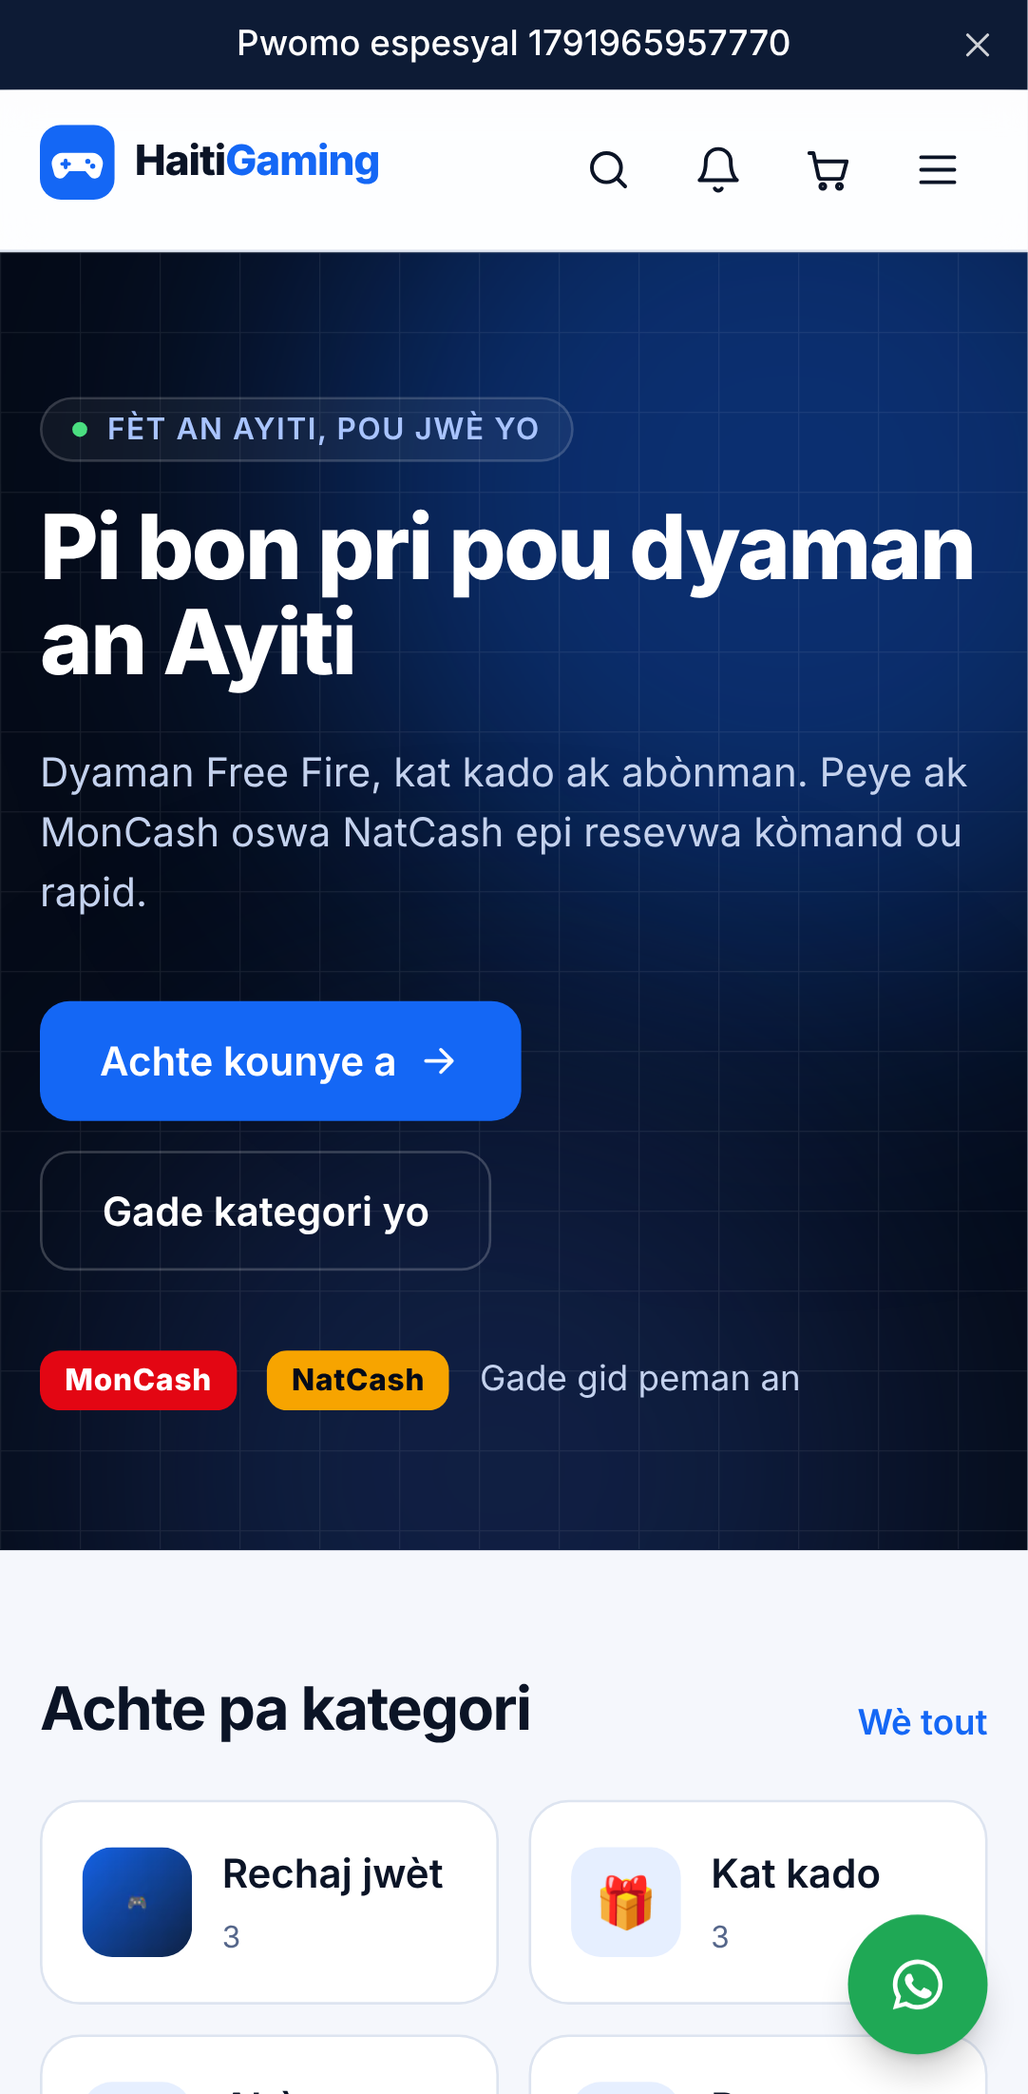
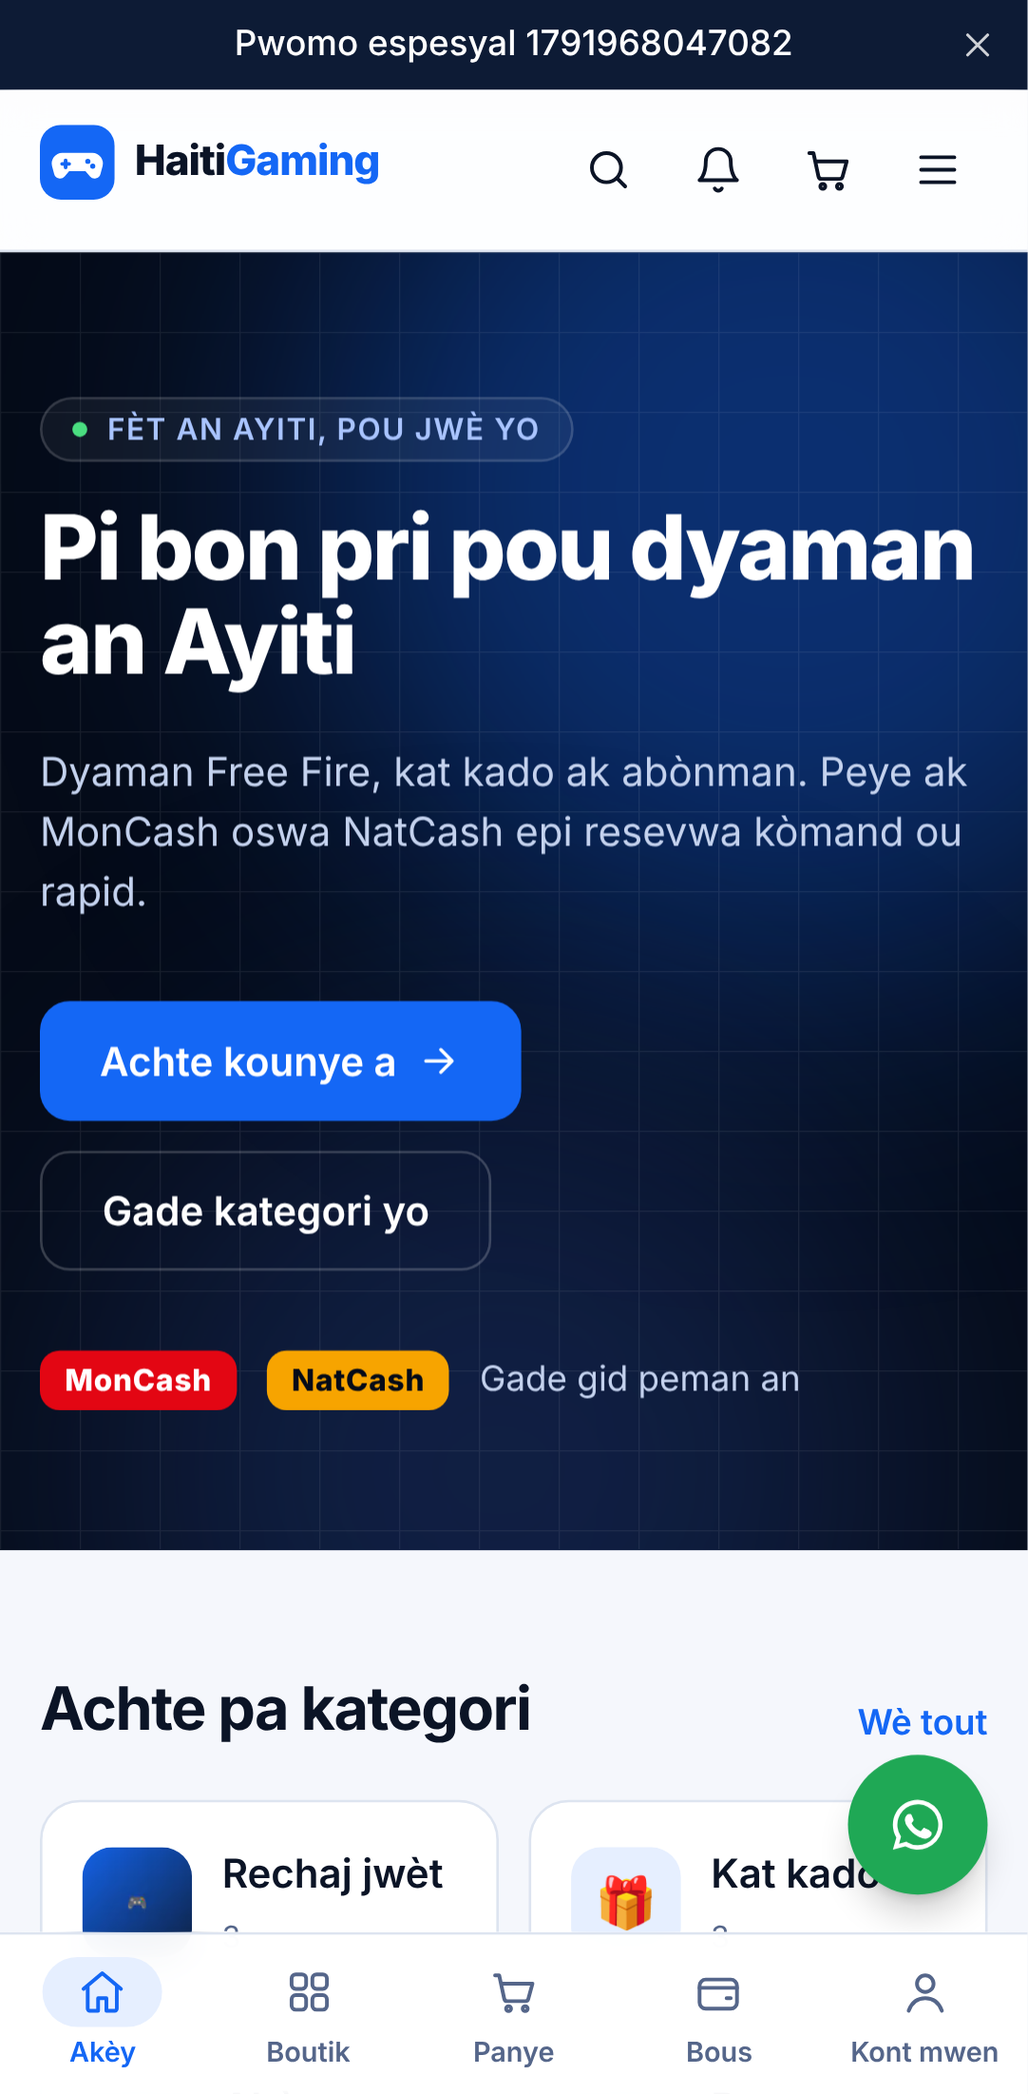
Fix phone menu, add bottom navigation, make admin work on phones
- Phone menu rendered into <body>: the header's backdrop blur trapped the
  fixed panel inside the 64px header, so it looked like nothing opened
- Storefront bottom tab bar on phones (Home, Store, Cart, Wallet, Account)
- Admin: tables become labeled cards on phones, grid columns can shrink,
  bottom bar with Home/Orders/Payments/Support + More
- Tests: every admin page checked at phone width; mobile navigation

Claude-Session: https://claude.ai/code/session_01CWERax6mh6yt6fEhJPoubZ

diff --git a/src/components/HeaderClient.tsx b/src/components/HeaderClient.tsx
@@ -1,5 +1,6 @@
 "use client";
 import { useEffect, useState, useTransition } from "react";
+import { createPortal } from "react-dom";
 import { useLocale, useTranslations } from "next-intl";
 import { useParams } from "next/navigation";
 import { Link, usePathname, useRouter } from "@/i18n/navigation";
@@ -7,7 +8,7 @@ import { localeNames, locales, type Locale } from "@/i18n/routing";
 import { setCurrency, saveLocalePreference } from "@/actions/prefs";
 import { authClient } from "@/lib/auth-client";
 import { useStore } from "./cart/CartProvider";
-import { CartIcon, CloseIcon, MenuIcon, MoonIcon, SunIcon } from "./Icons";
+import { CartIcon, CloseIcon, HomeIcon, MenuIcon, MoonIcon, StoreIcon, SunIcon, UserIcon, WalletIcon } from "./Icons";
 
 export function ThemeToggle({ withLabel = false }: { withLabel?: boolean }) {
   const t = useTranslations("common");
@@ -121,6 +122,8 @@ export function MobileMenu({ nav, signedIn, name }: { nav: NavItem[]; signedIn: 
   const t = useTranslations("common");
   const [open, setOpen] = useState(false);
   const pathname = usePathname();
+  const [mounted, setMounted] = useState(false);
+  useEffect(() => setMounted(true), []);
   useEffect(() => setOpen(false), [pathname]);
   useEffect(() => {
     document.body.style.overflow = open ? "hidden" : "";
@@ -135,7 +138,8 @@ export function MobileMenu({ nav, signedIn, name }: { nav: NavItem[]; signedIn: 
         <MenuIcon />
         <span className="sr-only">{t("menu")}</span>
       </button>
-      {open && (
+      {/* Rendered into <body>: the header's backdrop blur would otherwise trap this fixed panel inside the 64px header. */}
+      {open && mounted && createPortal(
         <div className="fixed inset-0 z-50 md:hidden" role="dialog" aria-modal="true" id="mobile-menu">
           <button type="button" aria-label={t("close")} className="absolute inset-0 bg-midnight/60" onClick={() => setOpen(false)} />
           <div className="animate-rise absolute inset-y-0 right-0 flex w-[86%] max-w-sm flex-col gap-1 overflow-y-auto bg-surface p-4 shadow-2xl">
@@ -171,8 +175,50 @@ export function MobileMenu({ nav, signedIn, name }: { nav: NavItem[]; signedIn: 
               <ThemeToggle withLabel />
             </div>
           </div>
-        </div>
+        </div>,
+        document.body,
       )}
     </>
+  );
+}
+
+/** Phone-only bottom navigation: the five places customers go most. */
+export function BottomNav({ signedIn }: { signedIn: boolean }) {
+  const t = useTranslations("common");
+  const pathname = usePathname();
+  const { count, ready } = useStore();
+  const items = [
+    { href: "/", label: t("home"), icon: HomeIcon, active: pathname === "/" },
+    { href: "/store", label: t("store"), icon: StoreIcon, active: pathname.startsWith("/store") || pathname.startsWith("/categories") || pathname.startsWith("/products") },
+    { href: "/cart", label: t("cart"), icon: CartIcon, active: pathname.startsWith("/cart") || pathname.startsWith("/checkout"), badge: ready ? count : 0 },
+    { href: signedIn ? "/account/wallet" : "/auth/login?next=/account/wallet", label: t("wallet"), icon: WalletIcon, active: pathname.startsWith("/account/wallet") },
+    { href: signedIn ? "/account" : "/auth/login", label: signedIn ? t("account") : t("signIn"), icon: UserIcon, active: (pathname.startsWith("/account") && !pathname.startsWith("/account/wallet")) || pathname.startsWith("/auth") },
+  ];
+  return (
+    <nav
+      aria-label={t("menu")}
+      className="fixed inset-x-0 bottom-0 z-40 border-t border-border bg-surface/95 backdrop-blur md:hidden"
+      style={{ paddingBottom: "env(safe-area-inset-bottom, 0px)", paddingLeft: "env(safe-area-inset-left, 0px)", paddingRight: "env(safe-area-inset-right, 0px)" }}
+    >
+      <ul className="mx-auto grid h-16 max-w-md grid-cols-5">
+        {items.map(({ href, label, icon: Icon, active, badge }) => (
+          <li key={label} className="min-w-0">
+            <Link
+              href={href}
+              aria-current={active ? "page" : undefined}
+              className={`flex h-full flex-col items-center justify-center gap-0.5 text-[11px] font-semibold transition-colors ${active ? "text-primary" : "text-muted hover:text-text"}`}
+            >
+              <span className={`relative grid h-7 w-12 place-items-center rounded-full transition-colors ${active ? "bg-primary-soft" : ""}`}>
+                <Icon width={20} height={20} />
+                {!!badge && (
+                  <span className="absolute -right-0.5 -top-1 grid h-4 min-w-4 place-items-center rounded-full bg-primary px-1 text-[10px] font-bold text-white">{badge}</span>
+                )}
+              </span>
+              <span className="max-w-full truncate px-1">{label}</span>
+            </Link>
+          </li>
+        ))}
+      </ul>
+    </nav>
   );
 }

diff --git a/src/components/admin/AdminNav.tsx b/src/components/admin/AdminNav.tsx
@@ -4,7 +4,7 @@ import { usePathname, useRouter } from "next/navigation";
 import { useState } from "react";
 import { authClient } from "@/lib/auth-client";
 import { Logo } from "../Logo";
-import { MenuIcon, CloseIcon } from "../Icons";
+import { MenuIcon, CloseIcon, HomeIcon, CartIcon, WalletIcon, ChatIcon, StoreIcon, UserIcon } from "../Icons";
 
 export function AdminNav({ items, user, logo }: { items: { href: string; label: string; group?: string; badge?: number }[]; user: { name: string; role: string }; logo?: string }) {
   const pathname = usePathname();
@@ -34,6 +34,9 @@ export function AdminNav({ items, user, logo }: { items: { href: string; label: 
       </div>
     </div>
   );
+  // Up to four shortcuts the person is allowed to open, in this order of daily use.
+  const shortcuts: Record<string, typeof HomeIcon> = { "/admin": HomeIcon, "/admin/orders": CartIcon, "/admin/payments": WalletIcon, "/admin/support": ChatIcon, "/admin/products": StoreIcon, "/admin/customers": UserIcon };
+  const quick = items.filter((i) => i.href in shortcuts).slice(0, 4).map((i) => ({ ...i, short: shortcuts[i.href], label: i.label === "Dashboard" ? "Home" : i.label }));
   return (
     <>
       <aside className="sticky top-0 hidden h-dvh w-60 shrink-0 flex-col gap-6 overflow-y-auto bg-midnight p-4 lg:flex">
@@ -55,6 +58,32 @@ export function AdminNav({ items, user, logo }: { items: { href: string; label: 
           </div>
         </div>
       )}
+      {/* Phone: the most-used screens one tap away; "More" opens the full menu */}
+      <nav
+        aria-label="Quick admin navigation"
+        className="fixed inset-x-0 bottom-0 z-40 border-t border-white/10 bg-midnight lg:hidden"
+        style={{ paddingBottom: "env(safe-area-inset-bottom, 0px)", paddingLeft: "env(safe-area-inset-left, 0px)", paddingRight: "env(safe-area-inset-right, 0px)" }}
+      >
+        <ul className="grid h-16 grid-cols-5">
+          {quick.map((i) => (
+            <li key={i.href} className="min-w-0">
+              <Link href={i.href} aria-current={active(i.href) ? "page" : undefined} className={`flex h-full flex-col items-center justify-center gap-0.5 text-[11px] font-semibold ${active(i.href) ? "text-white" : "text-[#9fb0d0]"}`}>
+                <span className={`relative grid h-7 w-11 place-items-center rounded-full ${active(i.href) ? "bg-primary" : ""}`}>
+                  <i.short width={18} height={18} />
+                  {!!i.badge && <span className="absolute -right-1 -top-1 grid h-4 min-w-4 place-items-center rounded-full bg-warning px-1 text-[10px] font-bold text-midnight">{i.badge}</span>}
+                </span>
+                <span className="max-w-full truncate px-1">{i.label}</span>
+              </Link>
+            </li>
+          ))}
+          <li>
+            <button type="button" onClick={() => setOpen(true)} className="flex h-full w-full flex-col items-center justify-center gap-0.5 text-[11px] font-semibold text-[#9fb0d0]">
+              <span className="grid h-7 w-11 place-items-center"><MenuIcon width={18} height={18} /></span>
+              More
+            </button>
+          </li>
+        </ul>
+      </nav>
     </>
   );
 }

diff --git a/e2e/admin-mobile.spec.ts b/e2e/admin-mobile.spec.ts
@@ -1,0 +1,43 @@
+import { test, expect } from "@playwright/test";
+import { staffLogin } from "./helpers";
+
+/** Every admin screen must fit a phone: no sideways scrolling of the page itself. */
+const PAGES = ["", "orders", "payments", "reconciliation", "risk", "approvals", "support", "products", "codes", "media", "customers", "wallet", "referrals", "analytics", "homepage", "news", "pages", "navigation", "newsletter", "appearance", "translations", "seo", "staff", "security", "payment-methods", "email", "settings", "audit"];
+
+test("admin pages fit a phone screen", async ({ page }) => {
+  test.setTimeout(240_000);
+  await staffLogin(page);
+  // Detail pages: open the first item of each list
+  const details: string[] = [];
+  for (const [list, re] of [["orders", /\/admin\/orders\/c/], ["customers", /\/admin\/customers\/c/], ["products", /\/admin\/products\/c/], ["support", /\/admin\/support\/c/], ["news", /\/admin\/news\/c/], ["pages", /\/admin\/pages\/c/]] as const) {
+    await page.goto(`/admin/${list}`);
+    const href = await page.locator("main a[href]").evaluateAll((as, src) => as.map((a) => a.getAttribute("href")).find((h) => h && new RegExp(src).test(h)) ?? null, re.source);
+    if (href) details.push(href);
+  }
+  const problems: string[] = [];
+  for (const path of [...PAGES.map((p) => `/admin${p ? "/" + p : ""}`), ...details]) {
+    await page.goto(path);
+    await page.waitForLoadState("networkidle");
+    const r = await page.evaluate(() => {
+      const vw = document.documentElement.clientWidth;
+      const over = document.documentElement.scrollWidth - vw;
+      const culprits: string[] = [];
+      if (over > 1) {
+        for (const el of Array.from(document.querySelectorAll("main *"))) {
+          const b = el.getBoundingClientRect();
+          if (b.right > vw + 1 && b.width > 0) {
+            let p: Element | null = el.parentElement, scrolls = false;
+            while (p && p !== document.body) { const o = getComputedStyle(p).overflowX; if (o === "auto" || o === "scroll" || o === "hidden") { scrolls = true; break; } p = p.parentElement; }
+            if (!scrolls) culprits.push(`${el.tagName.toLowerCase()}.${(el.getAttribute("class") ?? "").split(" ").slice(0, 4).join(".")} w=${Math.round(b.width)}`);
+          }
+          if (culprits.length >= 3) break;
+        }
+      }
+      return { over, culprits };
+    });
+    if (r.over > 1) problems.push(`${path}: +${r.over}px  ${r.culprits.join(" | ")}`);
+    await page.screenshot({ path: `test-results/admin-mobile${path.replace(/\//g, "_")}.png`, fullPage: true });
+  }
+  console.log(problems.length ? "OVERFLOW:\n" + problems.join("\n") : "All admin pages fit.");
+  expect(problems).toEqual([]);
+});

diff --git a/src/components/admin/ui.tsx b/src/components/admin/ui.tsx
@@ -1,3 +1,4 @@
+import { Children, Fragment, cloneElement, isValidElement } from "react";
 export function PageTitle({ title, sub, actions }: { title: string; sub?: string; actions?: React.ReactNode }) {
   return (
     <div className="mb-6 flex flex-wrap items-end justify-between gap-3">
@@ -10,14 +11,30 @@ export function PageTitle({ title, sub, actions }: { title: string; sub?: string
   );
 }
 
+/** Adds each column's header as a data-label on its cells, so phones can show rows as labeled cards. */
+function labelCells(children: React.ReactNode, head: string[]): React.ReactNode {
+  return Children.map(children, (row) => {
+    if (!isValidElement<{ children?: React.ReactNode }>(row)) return row;
+    if (row.type === Fragment) return cloneElement(row, {}, labelCells(row.props.children, head));
+    let i = 0;
+    const cells = Children.map(row.props.children, (cell) => {
+      if (!isValidElement(cell)) return cell;
+      const label = head[i++] ?? "";
+      return cloneElement(cell as React.ReactElement<Record<string, unknown>>, { "data-label": label });
+    });
+    return cloneElement(row, {}, cells);
+  });
+}
+
+/** Table on wide screens; on phones each row becomes a card with "Label · value" lines. */
 export function Table({ head, children, empty }: { head: string[]; children: React.ReactNode; empty?: boolean }) {
   return (
-    <div className="card overflow-x-auto">
-      <table className="w-full min-w-[640px] text-left text-sm">
+    <div className="card rtable overflow-x-auto">
+      <table className="w-full text-left text-sm sm:min-w-[640px]">
         <thead className="border-b border-border text-xs uppercase tracking-wide text-muted">
           <tr>{head.map((h) => <th key={h} className="px-4 py-3 font-semibold">{h}</th>)}</tr>
         </thead>
-        <tbody className="divide-y divide-border">{children}</tbody>
+        <tbody className="divide-y divide-border">{labelCells(children, head)}</tbody>
       </table>
       {empty && <p className="p-8 text-center text-sm text-muted">Nothing here.</p>}
     </div>

diff --git a/src/app/globals.css b/src/app/globals.css
@@ -160,3 +160,71 @@ body {
 .data-saver .blur-3xl {
   display: none;
 }
+
+/* Admin on phones: grid columns may shrink below their content, and tables turn into labeled cards. */
+.admin-main .grid > * {
+  min-width: 0;
+}
+@media (max-width: 639px) {
+  .rtable table,
+  .rtable tbody {
+    display: block;
+  }
+  .rtable thead {
+    position: absolute;
+    width: 1px;
+    height: 1px;
+    overflow: hidden;
+    clip: rect(0 0 0 0);
+  }
+  .rtable tr {
+    display: grid;
+    gap: 2px;
+    padding: 12px 14px;
+  }
+  .rtable td {
+    display: grid;
+    grid-template-columns: auto minmax(0, 1fr);
+    column-gap: 12px;
+    row-gap: 2px;
+    align-items: center;
+    justify-items: end;
+    padding: 4px 0 !important;
+    text-align: right;
+    overflow-wrap: anywhere;
+  }
+  .rtable td > * {
+    grid-column: 2;
+    min-width: 0;
+    max-width: 100%;
+  }
+  .rtable td[data-label]::before {
+    content: attr(data-label);
+    grid-column: 1;
+    grid-row: 1 / span 6;
+    align-self: start;
+    padding-top: 2px;
+    justify-self: start;
+    text-align: left;
+    font-size: 11px;
+    font-weight: 600;
+    text-transform: uppercase;
+    letter-spacing: 0.04em;
+    color: var(--muted);
+  }
+  .rtable td[data-label=""] {
+    grid-template-columns: minmax(0, 1fr);
+  }
+  .rtable td[data-label=""] > * {
+    grid-column: 1;
+  }
+  .rtable td[data-label=""]::before {
+    content: none;
+  }
+  .rtable td:first-child {
+    font-weight: 600;
+  }
+  .rtable td:empty {
+    display: none;
+  }
+}

diff --git a/e2e/mobile-nav.spec.ts b/e2e/mobile-nav.spec.ts
@@ -1,0 +1,28 @@
+import { test, expect } from "@playwright/test";
+import { staffLogin } from "./helpers";
+
+test("phone menu opens full screen and the bottom bar navigates", async ({ page }) => {
+  await page.goto("/ht");
+  await page.waitForLoadState("networkidle");
+  await page.locator('button[aria-controls="mobile-menu"]').click();
+  const menu = page.locator("#mobile-menu");
+  const box = await menu.boundingBox();
+  expect(box!.height).toBeGreaterThan(500); // regression: the header's blur once trapped it at 64px
+  await menu.getByRole("link", { name: "Kategori" }).click();
+  await page.waitForURL("**/ht/categories");
+
+  const bar = page.getByRole("navigation", { name: "Meni" });
+  await bar.getByRole("link", { name: "Boutik" }).click();
+  await page.waitForURL("**/ht/store");
+  await expect(bar.getByRole("link", { name: "Boutik" })).toHaveAttribute("aria-current", "page");
+});
+
+test("admin bottom bar and More menu work on a phone", async ({ page }) => {
+  await staffLogin(page);
+  const bar = page.getByRole("navigation", { name: "Quick admin navigation" });
+  await bar.getByRole("link", { name: "Orders" }).click();
+  await page.waitForURL("**/admin/orders");
+  await bar.getByRole("button", { name: "More" }).click();
+  await page.getByRole("dialog").getByRole("link", { name: "Settings" }).click();
+  await page.waitForURL("**/admin/settings");
+});

diff --git a/src/app/[locale]/layout.tsx b/src/app/[locale]/layout.tsx
@@ -10,6 +10,7 @@ import { CartProvider } from "@/components/cart/CartProvider";
 import { Header } from "@/components/Header";
 import { Footer } from "@/components/Footer";
 import { WhatsAppButton } from "@/components/WhatsAppButton";
+import { BottomNav } from "@/components/HeaderClient";
 import { AnnouncementBar } from "@/components/AnnouncementBar";
 import { alternates } from "@/lib/seo";
 import { themeCss } from "@/lib/theme-css";
@@ -67,6 +68,9 @@ export default async function LocaleLayout({ children, params }: { children: Rea
             <main id="main">{children}</main>
             <Footer settings={settings} />
             <WhatsAppButton number={settings.whatsappNumber} />
+            {/* Room for the phone bottom navigation so it never covers the footer */}
+            <div className="md:hidden" style={{ height: "calc(4rem + env(safe-area-inset-bottom, 0px))" }} aria-hidden />
+            <BottomNav signedIn={!!user} />
             <ServiceWorker />
           </CartProvider>
         </NextIntlClientProvider>

diff --git a/src/components/Icons.tsx b/src/components/Icons.tsx
@@ -27,3 +27,5 @@ export const WhatsAppIcon = (p: P) => (
     <path fill="currentColor" d="M12 2a10 10 0 0 0-8.6 15.1L2 22l5-1.3A10 10 0 1 0 12 2Zm0 18.2a8.2 8.2 0 0 1-4.2-1.2l-.3-.2-3 .8.8-2.9-.2-.3A8.2 8.2 0 1 1 12 20.2Zm4.5-6.1c-.2-.1-1.5-.7-1.7-.8-.2-.1-.4-.1-.6.1l-.8 1c-.1.2-.3.2-.5.1a6.7 6.7 0 0 1-3.3-2.9c-.2-.4.2-.4.7-1.3.1-.2 0-.3 0-.4l-.8-1.8c-.2-.5-.4-.4-.6-.4h-.5a1 1 0 0 0-.7.3 3 3 0 0 0-.9 2.2 5.2 5.2 0 0 0 1.1 2.7 11.8 11.8 0 0 0 4.5 4c1.7.7 2.3.8 3.2.6a2.7 2.7 0 0 0 1.8-1.2 2.2 2.2 0 0 0 .1-1.3c0-.1-.2-.2-.5-.3Z" />
   </svg>
 );
+export const HomeIcon = (p: P) => (<svg {...base} {...p}><path d="M3 10.5 12 3l9 7.5" /><path d="M5 9.5V20a1 1 0 0 0 1 1h4v-6h4v6h4a1 1 0 0 0 1-1V9.5" /></svg>);
+export const StoreIcon = (p: P) => (<svg {...base} {...p}><rect x="3.5" y="3.5" width="7" height="7" rx="2" /><rect x="13.5" y="3.5" width="7" height="7" rx="2" /><rect x="3.5" y="13.5" width="7" height="7" rx="2" /><rect x="13.5" y="13.5" width="7" height="7" rx="2" /></svg>);

diff --git a/src/components/WhatsAppButton.tsx b/src/components/WhatsAppButton.tsx
@@ -9,7 +9,8 @@ export async function WhatsAppButton({ number, message }: { number: string; mess
       href={`https://wa.me/${number}?text=${text}`}
       target="_blank"
       rel="noopener"
-      className="fixed bottom-4 right-4 z-30 inline-flex h-14 items-center gap-2 rounded-full bg-[#1fa855] px-4 font-semibold text-white shadow-lg shadow-black/20 hover:bg-[#178a45] sm:bottom-6 sm:right-6"
+      style={{ bottom: "calc(5rem + env(safe-area-inset-bottom, 0px))" }}
+      className="fixed right-4 z-30 md:!bottom-6 md:right-6 inline-flex h-14 items-center gap-2 rounded-full bg-[#1fa855] px-4 font-semibold text-white shadow-lg shadow-black/20 hover:bg-[#178a45]"
       aria-label={t("whatsappHelp")}
     >
       <WhatsAppIcon />

diff --git a/src/app/admin/(panel)/layout.tsx b/src/app/admin/(panel)/layout.tsx
@@ -49,7 +49,7 @@ export default async function PanelLayout({ children }: { children: React.ReactN
   return (
     <div className="lg:flex">
       <AdminNav items={all.filter((i) => can(user, i.perm))} user={{ name: user.name, role: user.role }} logo={settings.logoDarkUrl || settings.logoUrl} />
-      <main className="min-w-0 flex-1 p-4 sm:p-6 lg:p-8">{children}</main>
+      <main className="admin-main min-w-0 flex-1 p-4 pb-28 sm:p-6 sm:pb-28 lg:p-8">{children}</main>
     </div>
   );
 }

diff --git a/README.md b/README.md
@@ -53,7 +53,7 @@ Without MonCash credentials the site runs MonCash in **mock mode** (a test appro
 
 ```bash
 TEST_DATABASE_URL=postgresql://…/haiti_gaming_test npm test       # ledger, concurrency, idempotency, exchange, auto-refund, crypto, statements, Turnstile, Sentry (22 tests)
-# End-to-end (21 tests in 7 files) against a running server started with test-only switches:
+# End-to-end (24 tests in 9 files; e2e/setup.spec.ts runs only against an empty database) against a running server started with test-only switches:
 UPLOAD_DIR=$PWD/uploads AUTH_RATE_LIMIT=off ALLOW_MOCK_PAYMENTS=1 npm start
 npx playwright test e2e/journeys.spec.ts    # run each file on its own; each sets up the admin's 2FA from scratch
 ```
